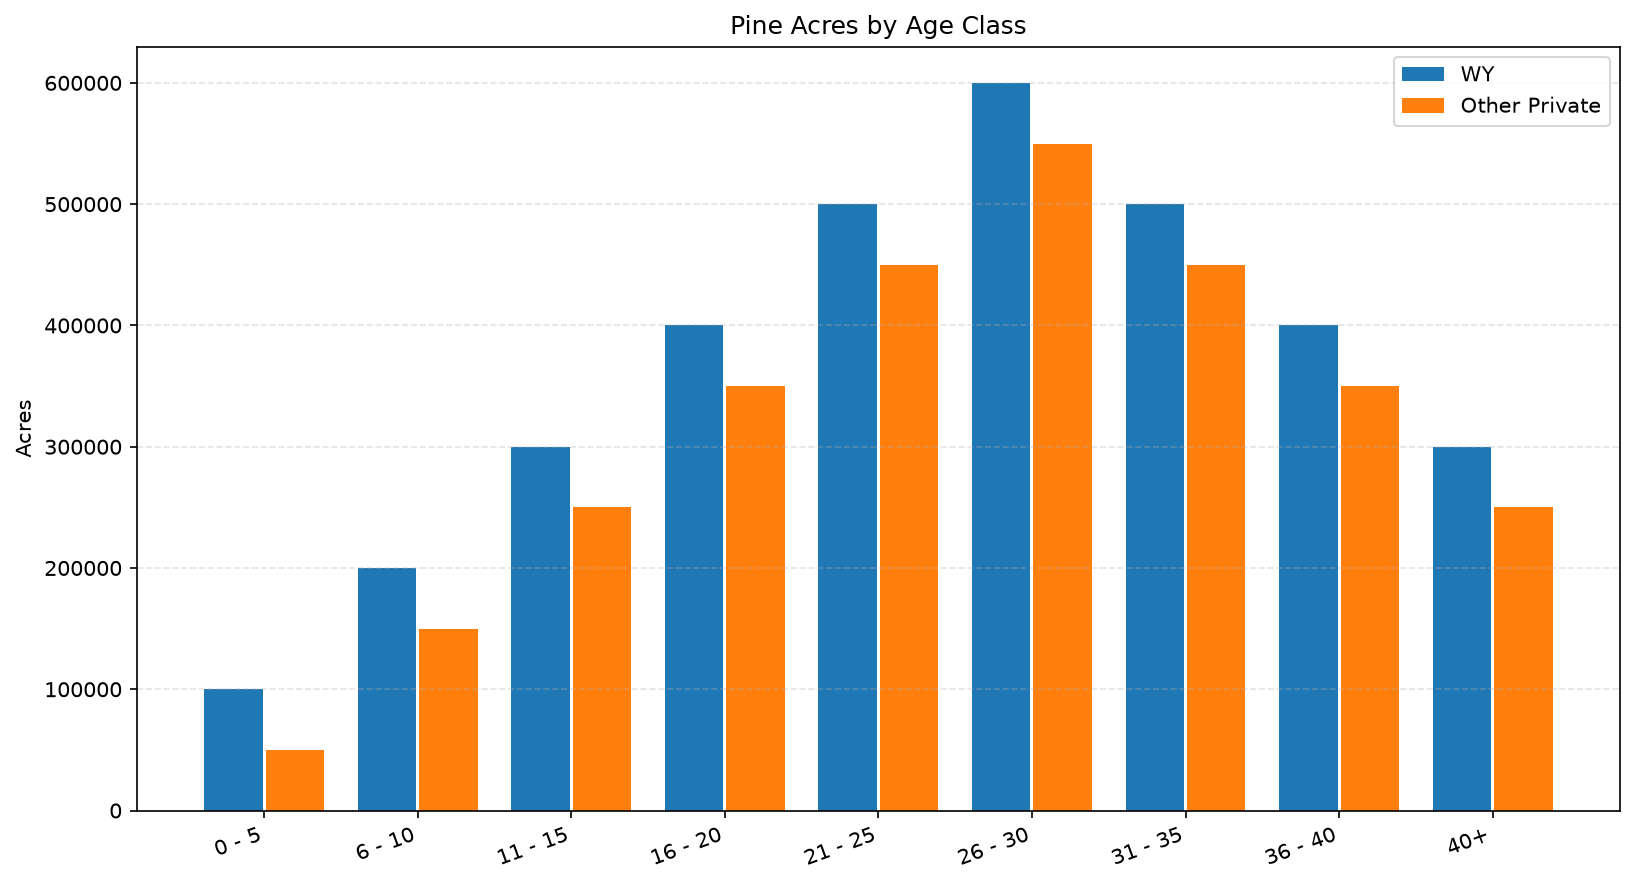
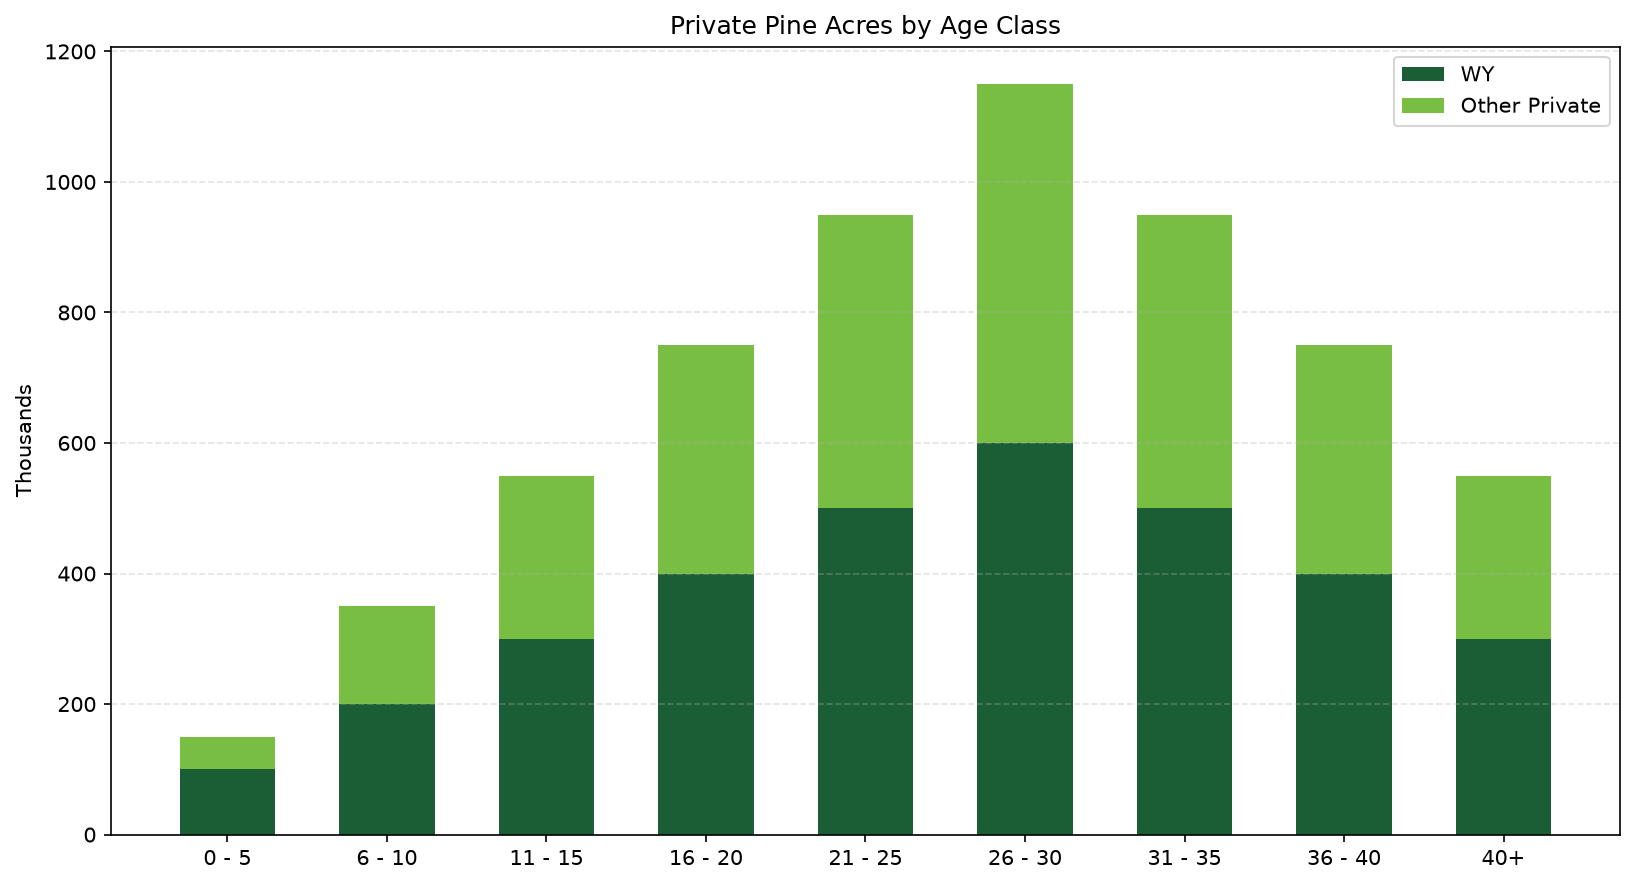
volume and age class dist tested

diff --git a/AVO/tests/test_charts.py b/AVO/tests/test_charts.py
@@ -59,10 +59,25 @@ PINE_AGE_CLASS_TABLE_COLUMNS = [
     {"key": "age_class", "label": "Age Class"},
     {"key": "wy", "label": "WY"},
     {"key": "other_private", "label": "Other Private"},
+    {"key": "total", "label": "Total"},
+    {"key": "pct_wy", "label": "% WY"},
 ]
 
-PINE_AGE_CLASS_NUMERIC_COLUMNS = ["wy", "other_private"]
-PINE_AGE_CLASS_TABLE_WIDTHS = [0.2, 0.2, 0.2]
+PINE_AGE_CLASS_NUMERIC_COLUMNS = ["wy", "other_private", "total"]
+PINE_AGE_CLASS_PERCENT_COLUMNS = ["pct_wy"]
+PINE_AGE_CLASS_TABLE_WIDTHS = [0.14, 0.14, 0.16, 0.14, 0.10]
+
+PINE_VOLUME_TABLE_COLUMNS = [
+    {"key": "age_class", "label": "Age Class"},
+    {"key": "wy", "label": "WY"},
+    {"key": "other_private", "label": "Other Private"},
+    {"key": "total", "label": "Total"},
+    {"key": "pct_wy", "label": "% WY"},
+]
+
+PINE_VOLUME_NUMERIC_COLUMNS = ["wy", "other_private", "total"]
+PINE_VOLUME_PERCENT_COLUMNS = ["pct_wy"]
+PINE_VOLUME_TABLE_WIDTHS = [0.14, 0.14, 0.16, 0.14, 0.10]
 
 
 def load_mock_cover_type_rows() -> list[dict[str, object]]:
@@ -86,6 +101,12 @@ def load_mock_county_summary_rows() -> list[dict[str, object]]:
 def load_mock_pine_age_class_rows() -> list[dict[str, object]]:
     """Load pine acres by age class SQL-like mock rows from JSON test data."""
     data_file = MOCK_DATA_DIR / "pine_acres_by_age_class_rows.json"
+    return json.loads(data_file.read_text(encoding="utf-8"))
+
+
+def load_mock_pine_volume_rows() -> list[dict[str, object]]:
+    """Load pine volume by age class SQL-like mock rows from JSON test data."""
+    data_file = MOCK_DATA_DIR / "pine_volume_by_age_class_rows.json"
     return json.loads(data_file.read_text(encoding="utf-8"))
 
 
@@ -147,7 +168,7 @@ def test_generate_pie_chart_png_missing_column_raises() -> None:
 
 
 def test_generate_bar_chart_png_for_pine_age_class(tmp_path) -> None:
-    """Generic grouped bar chart should render pine age class series."""
+    """Stacked bar chart should render pine age class series with colors."""
     from avo_utils.bars import generate_bar_chart_png
 
     output = str(tmp_path / "pine_age_class_bar.png")
@@ -157,9 +178,12 @@ def test_generate_bar_chart_png_for_pine_age_class(tmp_path) -> None:
         category_column="age_class",
         series_columns=["wy", "other_private"],
         output_path=output,
-        title="Pine Acres by Age Class",
-        y_label="Acres",
+        title="Private Pine Acres by Age Class",
+        y_label="Thousands",
         series_labels={"wy": "WY", "other_private": "Other Private"},
+        stacked=True,
+        series_colors=["#1b5e35", "#78be43"],
+        y_divisor=1000,
     )
 
     import os
@@ -366,32 +390,90 @@ def test_generate_county_summary_table_grand_total(tmp_path) -> None:
     assert totals["wy_ownership_acres"] == pytest.approx(21000.0)
 
 
+def _enrich_pine_rows(
+    rows: list[dict[str, object]],
+) -> list[dict[str, object]]:
+    """Add computed total and pct_wy columns to pine age class rows."""
+    enriched = []
+    for row in rows:
+        wy = float(row["wy"])
+        other = float(row["other_private"])
+        total = wy + other
+        enriched.append(
+            {**row, "total": total, "pct_wy": (wy / total * 100) if total else 0.0}
+        )
+    return enriched
+
+
+def test_generate_pine_volume_bar_chart_png(tmp_path) -> None:
+    """Stacked bar chart should render pine volume series with green colors."""
+    from avo_utils.bars import generate_bar_chart_png
+
+    output = str(tmp_path / "pine_volume_bar.png")
+    rows = load_mock_pine_volume_rows()
+    result = generate_bar_chart_png(
+        rows=rows,
+        category_column="age_class",
+        series_columns=["wy", "other_private"],
+        output_path=output,
+        title="Private Pine Volume by Age Class",
+        y_label="Thousands",
+        series_labels={"wy": "WY", "other_private": "Other Private"},
+        stacked=True,
+        series_colors=["#1b5e35", "#78be43"],
+        y_divisor=1000,
+    )
+
+    import os
+
+    assert os.path.isfile(output)
+    assert result["category_count"] == 9
+    assert result["series_count"] == 2
+
+
+def test_generate_pine_volume_table_png(tmp_path) -> None:
+    """Pine volume table should include Total and % WY columns."""
+    from avo_utils.tables import generate_table_png
+
+    output = str(tmp_path / "pine_volume_table.png")
+    rows = _enrich_pine_rows(load_mock_pine_volume_rows())
+
+    result = generate_table_png(
+        rows=rows,
+        output_path=output,
+        columns=PINE_VOLUME_TABLE_COLUMNS,
+        numeric_columns=PINE_VOLUME_NUMERIC_COLUMNS,
+        percent_columns=PINE_VOLUME_PERCENT_COLUMNS,
+        column_widths=PINE_VOLUME_TABLE_WIDTHS,
+        title="Private Pine Volume by Age Class",
+    )
+
+    import os
+
+    assert os.path.isfile(output)
+    assert result["summary_row_count"] == 0
+    assert result["data_row_count"] == 9
+
+
 def test_generate_pine_age_class_table_with_total(tmp_path) -> None:
-    """Pine age class table should include a grand total row for WY and Other Private."""
+    """Pine table should include Total/% WY columns and a grand total row."""
     from avo_utils.tables import build_grand_total_row, generate_table_png
 
     output = str(tmp_path / "pine_age_class_table.png")
-    rows = load_mock_pine_age_class_rows()
-    summary_rows, totals = build_grand_total_row(
-        rows,
-        sum_columns=["wy", "other_private"],
-        label_column="age_class",
-        label="Total",
-    )
+    rows = _enrich_pine_rows(load_mock_pine_age_class_rows())
 
     result = generate_table_png(
         rows=rows,
         output_path=output,
         columns=PINE_AGE_CLASS_TABLE_COLUMNS,
         numeric_columns=PINE_AGE_CLASS_NUMERIC_COLUMNS,
-        summary_rows=summary_rows,
+        percent_columns=PINE_AGE_CLASS_PERCENT_COLUMNS,
         column_widths=PINE_AGE_CLASS_TABLE_WIDTHS,
-        title="Pine Acres by Age Class",
+        title="Private Pine Acres by Age Class",
     )
 
     import os
 
     assert os.path.isfile(output)
-    assert result["summary_row_count"] == 1
-    assert totals["wy"] == pytest.approx(3300000.0)
-    assert totals["other_private"] == pytest.approx(2850000.0)
+    assert result["summary_row_count"] == 0
+    assert result["data_row_count"] == 9

diff --git a/AVO/src/avo_utils/bars.py b/AVO/src/avo_utils/bars.py
@@ -37,14 +37,17 @@ def generate_bar_chart_png(
     title: str | None = None,
     y_label: str | None = None,
     series_labels: dict[str, str] | None = None,
+    stacked: bool = False,
+    series_colors: list[str] | None = None,
+    y_divisor: float = 1.0,
 ) -> dict[str, Any]:
-    """Generate a grouped bar chart PNG from row data.
+    """Generate a grouped or stacked bar chart PNG from row data.
 
     :param rows: Source rows for the chart.
     :type rows: list[dict[str, Any]]
     :param category_column: Column used for x-axis categories.
     :type category_column: str
-    :param series_columns: Numeric columns to plot as grouped bars.
+    :param series_columns: Numeric columns to plot as bars.
     :type series_columns: list[str]
     :param output_path: Destination path for the PNG file.
     :type output_path: str
@@ -54,6 +57,12 @@ def generate_bar_chart_png(
     :type y_label: str | None
     :param series_labels: Optional display-name mapping for series keys.
     :type series_labels: dict[str, str] | None
+    :param stacked: Render as stacked bars rather than grouped.
+    :type stacked: bool
+    :param series_colors: Optional hex color strings per series in order.
+    :type series_colors: list[str] | None
+    :param y_divisor: Divide all values by this factor before plotting.
+    :type y_divisor: float
     :returns: Metadata about the generated image.
     :rtype: dict[str, Any]
     :raises ValueError: If inputs are invalid.
@@ -106,26 +115,54 @@ def generate_bar_chart_png(
     figure, axis = plt.subplots(figsize=(11, 6), dpi=150)
     try:
         x_positions = list(range(len(categories)))
-        bar_group_width = 0.8
-        per_bar_width = bar_group_width / len(series_columns)
 
-        for index, series_key in enumerate(series_columns):
-            offset = (index - (len(series_columns) - 1) / 2) * per_bar_width
-            bar_positions = [x + offset for x in x_positions]
-            display_name = (
-                series_labels.get(series_key, series_key.replace("_", " ").title())
-                if series_labels
-                else series_key.replace("_", " ").title()
-            )
-            axis.bar(
-                bar_positions,
-                series_values[series_key],
-                width=per_bar_width * 0.95,
-                label=display_name,
-            )
+        if stacked:
+            bottoms = [0.0] * len(categories)
+            for index, series_key in enumerate(series_columns):
+                display_name = (
+                    series_labels.get(series_key, series_key.replace("_", " ").title())
+                    if series_labels
+                    else series_key.replace("_", " ").title()
+                )
+                display_values = [v / y_divisor for v in series_values[series_key]]
+                color = (
+                    series_colors[index]
+                    if series_colors and index < len(series_colors)
+                    else None
+                )
+                bar_kwargs: dict[str, Any] = {
+                    "width": 0.6,
+                    "label": display_name,
+                    "bottom": bottoms,
+                }
+                if color:
+                    bar_kwargs["color"] = color
+                axis.bar(x_positions, display_values, **bar_kwargs)
+                bottoms = [b + v for b, v in zip(bottoms, display_values)]
+        else:
+            bar_group_width = 0.8
+            per_bar_width = bar_group_width / len(series_columns)
+            for index, series_key in enumerate(series_columns):
+                offset = (index - (len(series_columns) - 1) / 2) * per_bar_width
+                bar_positions = [x + offset for x in x_positions]
+                display_name = (
+                    series_labels.get(series_key, series_key.replace("_", " ").title())
+                    if series_labels
+                    else series_key.replace("_", " ").title()
+                )
+                display_values = [v / y_divisor for v in series_values[series_key]]
+                color = (
+                    series_colors[index]
+                    if series_colors and index < len(series_colors)
+                    else None
+                )
+                bar_kwargs = {"width": per_bar_width * 0.95, "label": display_name}
+                if color:
+                    bar_kwargs["color"] = color
+                axis.bar(bar_positions, display_values, **bar_kwargs)
 
         axis.set_xticks(x_positions)
-        axis.set_xticklabels(categories, rotation=20, ha="right")
+        axis.set_xticklabels(categories, rotation=0, ha="center")
         axis.legend(loc="upper right")
         axis.grid(axis="y", linestyle="--", alpha=0.35)
 

diff --git a/AVO/src/avo_utils/tables.py b/AVO/src/avo_utils/tables.py
@@ -167,6 +167,7 @@ def generate_table_png(
     *,
     columns: list[dict[str, str]] | None = None,
     numeric_columns: list[str] | None = None,
+    percent_columns: list[str] | None = None,
     summary_rows: list[dict[str, Any]] | None = None,
     highlight_summary_rows: bool = True,
     column_widths: list[float] | None = None,
@@ -182,6 +183,8 @@ def generate_table_png(
     :type columns: list[dict[str, str]] | None
     :param numeric_columns: Column keys to format/align as numeric.
     :type numeric_columns: list[str] | None
+    :param percent_columns: Column keys to format as integer percentages (e.g. ``"67%"``).
+    :type percent_columns: list[str] | None
     :param summary_rows: Optional extra rows appended at the end.
     :type summary_rows: list[dict[str, Any]] | None
     :param highlight_summary_rows: Whether to style summary rows.
@@ -208,6 +211,8 @@ def generate_table_png(
     column_keys = [item["key"] for item in columns]
     column_labels = [item.get("label", item["key"]) for item in columns]
     numeric_key_set = set(numeric_columns or [])
+    percent_key_set = set(percent_columns or [])
+    right_align_key_set = numeric_key_set | percent_key_set
 
     if column_widths is not None and len(column_widths) != len(column_keys):
         raise ValueError("column_widths must have the same length as columns")
@@ -224,23 +229,21 @@ def generate_table_png(
     output = Path(output_path).expanduser().resolve()
     output.parent.mkdir(parents=True, exist_ok=True)
 
+    def _render_cell(row: dict[str, Any], key: str) -> str:
+        value = row.get(key)
+        if key in percent_key_set:
+            if value is None:
+                return ""
+            return f"{int(round(float(value)))}%"
+        return _format_cell_value(value, key in numeric_key_set)
+
     rendered_rows: list[list[str]] = []
     for row in rows:
-        rendered_rows.append(
-            [
-                _format_cell_value(row.get(key), key in numeric_key_set)
-                for key in column_keys
-            ]
-        )
+        rendered_rows.append([_render_cell(row, key) for key in column_keys])
 
     summary_rows = summary_rows or []
     for row in summary_rows:
-        rendered_rows.append(
-            [
-                _format_cell_value(row.get(key), key in numeric_key_set)
-                for key in column_keys
-            ]
-        )
+        rendered_rows.append([_render_cell(row, key) for key in column_keys])
 
     plt = _get_pyplot_module()
 
@@ -275,7 +278,7 @@ def generate_table_png(
 
             if row_index > 0:
                 key = column_keys[column_index]
-                if key in numeric_key_set:
+                if key in right_align_key_set:
                     cell.set_text_props(ha="right")
                 else:
                     cell.set_text_props(ha="left")
@@ -288,7 +291,7 @@ def generate_table_png(
             ):
                 cell.set_text_props(weight="bold", color="#0b3d4a")
                 cell.set_facecolor("#eef2f1")
-            elif row_index > 0 and column_keys[column_index] in numeric_key_set:
+            elif row_index > 0 and column_keys[column_index] in right_align_key_set:
                 cell.set_text_props(ha="right")
 
         figure.tight_layout()